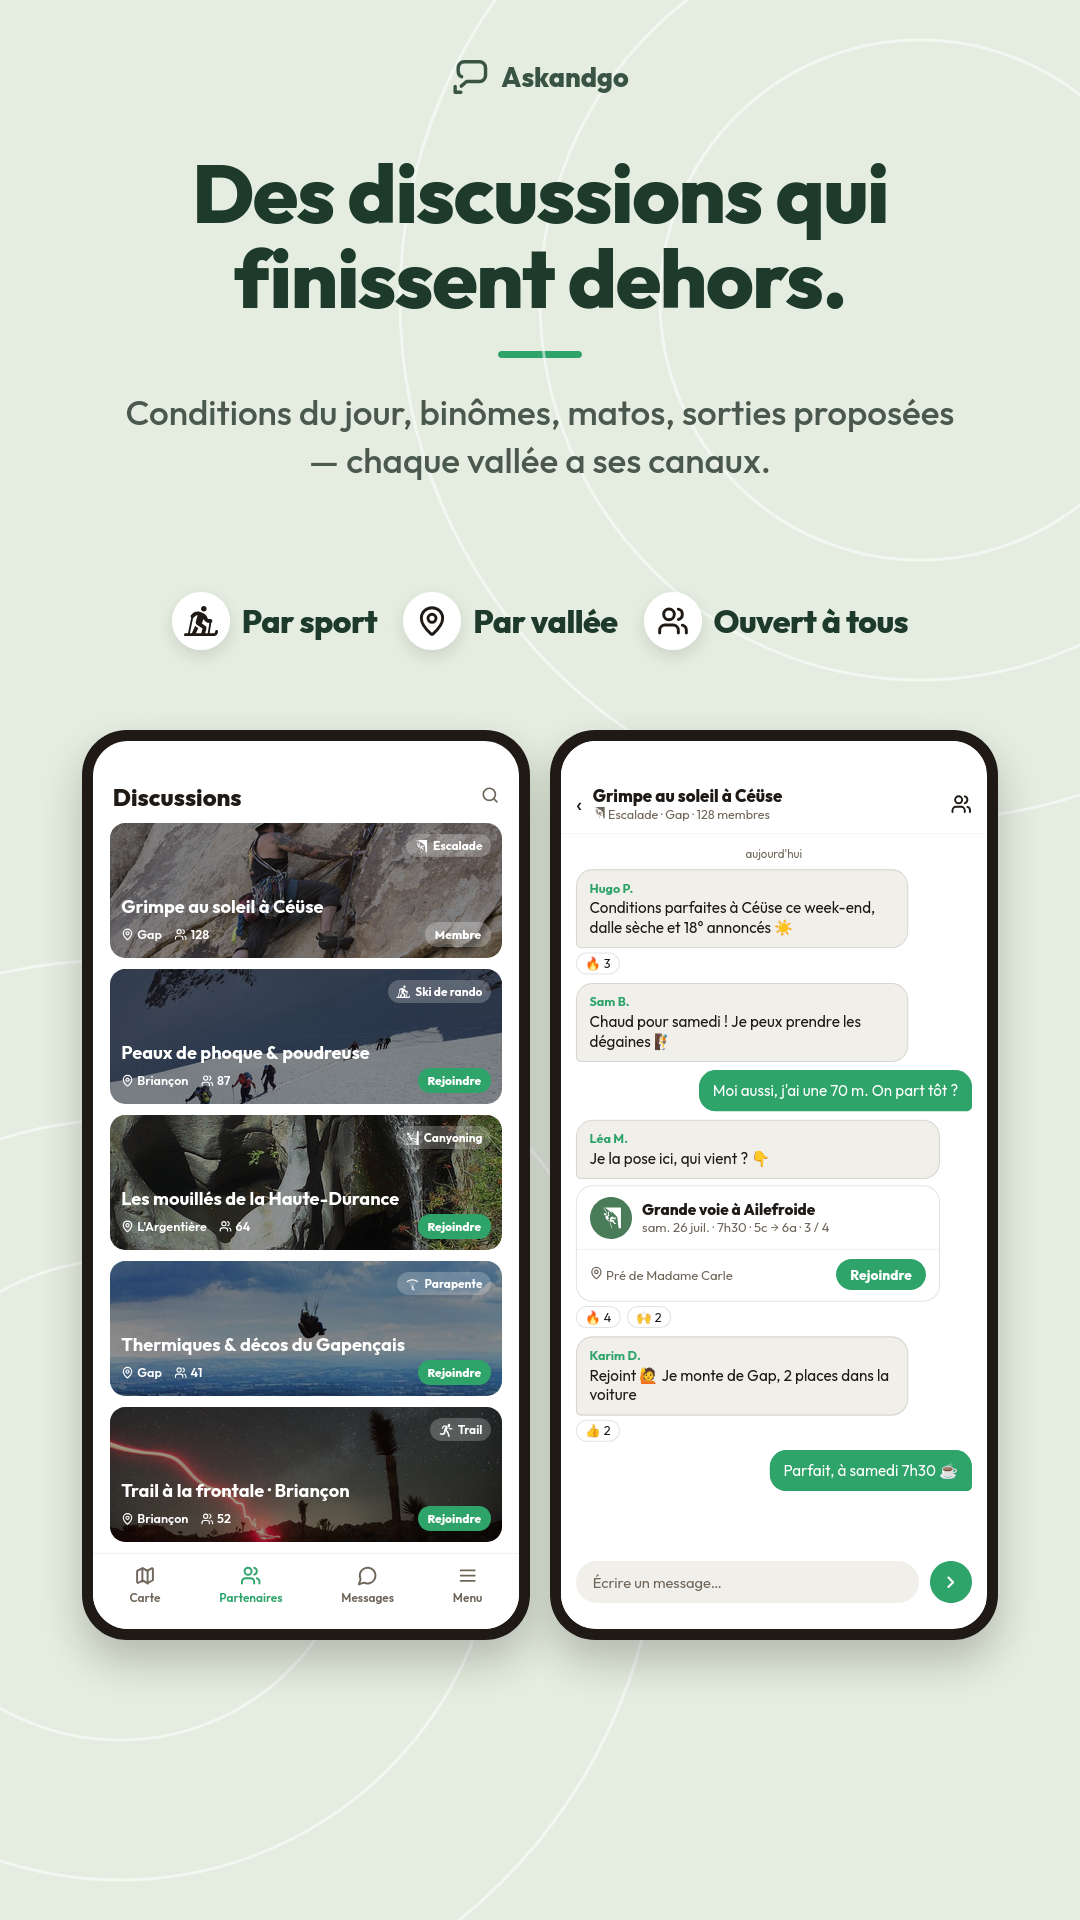
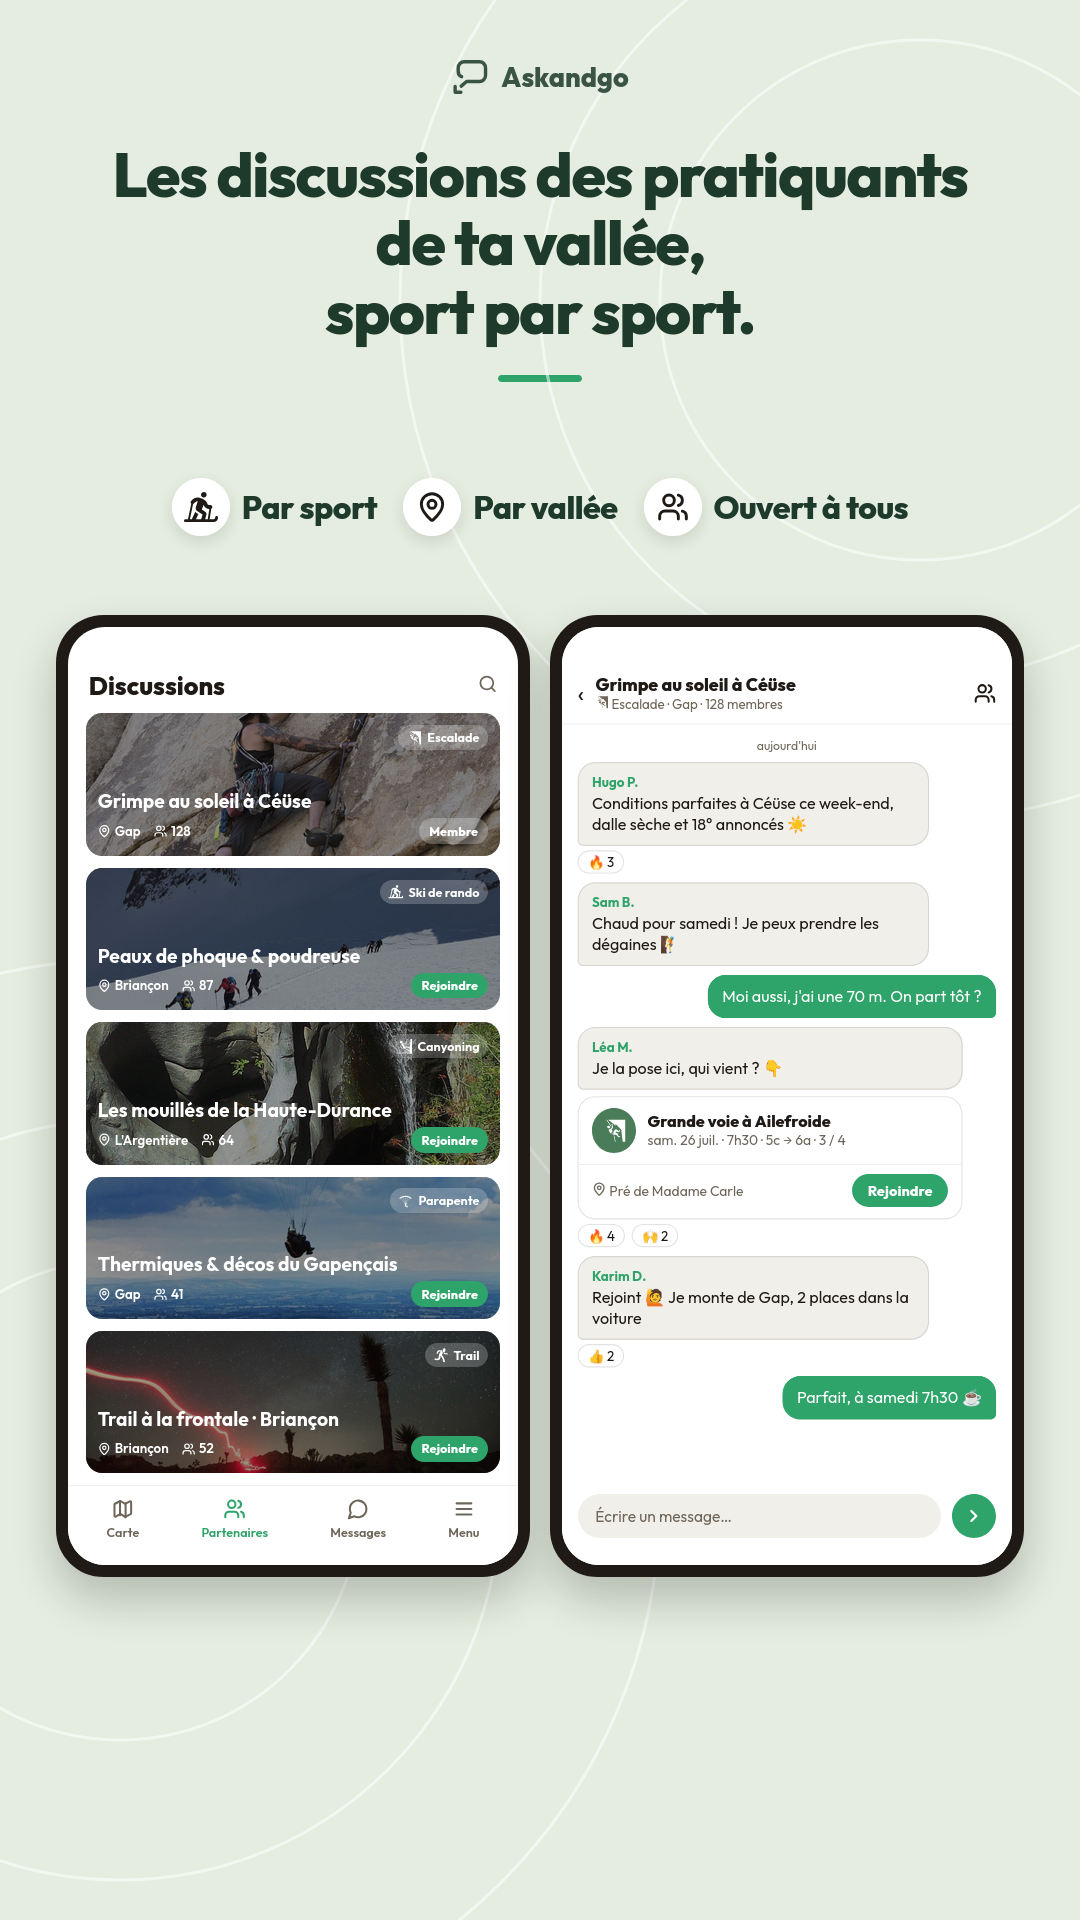
feat(play): descriptive titles that say what each screen does, no subtitle; title at 62 px, screens moved up and enlarged

diff --git a/assets/play-store/askandgo/two.py b/assets/play-store/askandgo/two.py
@@ -23,8 +23,8 @@ partenaires_body = pro_body = canaux_body = first_body
 
 def two_screens(title, sub, body_a, body_b):
     shell = screen(title, sub, '', '')
-    phones = (f'<div class="phone" style="left:-6px;top:600px;transform:scale(.72) rotate(-4deg);z-index:1"><div class="scr">{body_a}</div></div>'
-              f'<div class="phone" style="left:446px;top:900px;transform:scale(.72) rotate(3deg);z-index:2;box-shadow:0 46px 90px rgba(31,26,21,.34)"><div class="scr">{body_b}</div></div>')
+    phones = (f'<div class="phone" style="left:-6px;top:490px;transform:scale(.76) rotate(-4deg);z-index:1"><div class="scr">{body_a}</div></div>'
+              f'<div class="phone" style="left:446px;top:790px;transform:scale(.76) rotate(3deg);z-index:2;box-shadow:0 46px 90px rgba(31,26,21,.34)"><div class="scr">{body_b}</div></div>')
     return shell.replace('<div class="phone"><div class="scr"></div></div>', phones)
 
 # ---------- 3 · the page of a dispo (app/(auth)/partners/dispo.tsx) ----------
@@ -102,13 +102,13 @@ offering_body = f'''<div class="zoomwrap" style="background:#FFF">
 
 def keywords(items):
     cells = ''.join(f'<div style="display:flex;align-items:center;gap:12px"><span style="width:58px;height:58px;border-radius:50%;background:#FFF;display:inline-flex;align-items:center;justify-content:center;box-shadow:0 6px 16px rgba(31,26,21,.12)">{ic}</span><span style="font-size:32px;font-weight:800;color:{DEEP};letter-spacing:-.5px;white-space:nowrap">{w}</span></div>' for ic, w in items)
-    return f'<div style="position:absolute;left:0;right:0;top:592px;display:flex;justify-content:center;gap:26px;padding:0 20px">{cells}</div>'
+    return f'<div style="position:absolute;left:0;right:0;top:478px;display:flex;justify-content:center;gap:26px;padding:0 20px">{cells}</div>'
 
 # Image 4: two straight phones side by side (Scott 2026-10-27) under the keyword row.
 def side_by_side(title, sub, body_a, body_b, items):
     shell = screen(title, sub, '', '')
-    phones = (f'<div class="phone" style="left:-14px;top:730px;transform:scale(.70);box-shadow:0 30px 60px rgba(31,26,21,.24)"><div class="scr">{body_a}</div></div>'
-              f'<div class="phone" style="left:454px;top:730px;transform:scale(.70);box-shadow:0 30px 60px rgba(31,26,21,.24)"><div class="scr">{body_b}</div></div>')
+    phones = (f'<div class="phone" style="left:-27px;top:615px;transform:scale(.74);box-shadow:0 30px 60px rgba(31,26,21,.24)"><div class="scr">{body_a}</div></div>'
+              f'<div class="phone" style="left:467px;top:615px;transform:scale(.74);box-shadow:0 30px 60px rgba(31,26,21,.24)"><div class="scr">{body_b}</div></div>')
     return shell.replace('<div class="phone"><div class="scr"></div></div>', keywords(items) + phones)
 
 # ---------- 4 · a channel's thread: several people, a shared outing, reactions ----------
@@ -136,11 +136,12 @@ thread_body = f'''<div class="zoomwrap" style="background:#FFF">
 <div style="padding:10px 14px 24px;display:flex;align-items:center;gap:10px"><div style="flex:1;background:#F1EFEA;border-radius:999px;padding:11px 16px;font-size:14px;color:{SEC}">Écrire un message…</div><span style="width:40px;height:40px;border-radius:50%;background:{GREEN};display:inline-flex;align-items:center;justify-content:center">{li('chev',18,'#FFF',2.6)}</span></div></div>'''
 
 if which == '4':
-    html = side_by_side('Des discussions qui<br>finissent dehors.', 'Conditions du jour, binômes, matos, sorties proposées — chaque vallée a ses canaux.', canaux_body, thread_body,
+    html = side_by_side("Les discussions des pratiquants<br>de ta vallée,<br>sport par sport.", '', canaux_body, thread_body,
                         [(sp('ski-touring', 34, INK), 'Par sport'), (li('pin', 32, INK), 'Par vallée'), (li('users', 32, INK), 'Ouvert à tous')])
 elif which == '3':
-    html = two_screens('Dis quand<br>tu es dispo.', 'Pour quels sports, dans quelle zone — et vois qui cherche la même chose. Un message, et vous partez ensemble.', partenaires_body, dispo_body)
+    html = two_screens("Des partenaires de sortie :<br>même sport, même zone,<br>mêmes dates.", '', partenaires_body, dispo_body)
 else:
-    html = two_screens('Guides et moniteurs,<br>sur la même carte.', "Leur page, leurs sorties encadrées avec tarifs et places, des avis vérifiés. Tu choisis, tu réserves.", pro_body, offering_body)
+    html = two_screens("Des sorties encadrées<br>par des guides et moniteurs,<br>à réserver.", "", pro_body, offering_body)
+html = html.replace('font-size:82px;line-height:1.04', 'font-size:62px;line-height:1.1').replace('margin:150px 70px 0;text-align:center', 'margin:140px 60px 0;text-align:center')
 open(sys.argv[2], 'w').write(html)
 print('ok')

diff --git a/assets/play-store/askandgo/single.py b/assets/play-store/askandgo/single.py
@@ -14,21 +14,22 @@ screen_body = body
 def keywords(items):
     # items: [(icon_html, word)] — one centred row, title typography, no boxes
     cells = ''.join(f'<div style="display:flex;align-items:center;gap:12px"><span style="width:58px;height:58px;border-radius:50%;background:#FFF;display:inline-flex;align-items:center;justify-content:center;box-shadow:0 6px 16px rgba(31,26,21,.12)">{ic}</span><span style="font-size:32px;font-weight:800;color:{DEEP};letter-spacing:-.5px;white-space:nowrap">{w}</span></div>' for ic, w in items)
-    return f'<div style="position:absolute;left:0;right:0;top:592px;display:flex;justify-content:center;gap:26px;padding:0 20px">{cells}</div>'
+    return f'<div style="position:absolute;left:0;right:0;top:478px;display:flex;justify-content:center;gap:26px;padding:0 20px">{cells}</div>'
 
 def single(title, sub, body_html, items):
     shell = screen(title, sub, '', '')
-    phone = f'<div class="phone" style="left:220px;top:700px;transform:scale(.9);box-shadow:0 36px 70px rgba(31,26,21,.26)"><div class="scr">{body_html}</div></div>'
+    phone = f'<div class="phone" style="left:220px;top:585px;transform:scale(.95);box-shadow:0 36px 70px rgba(31,26,21,.26)"><div class="scr">{body_html}</div></div>'
     return shell.replace('<div class="phone"><div class="scr"></div></div>', keywords(items) + phone)
 
 if which == '2':
-    html = single("Dedans, tout<br>s'organise.", "Covoiturage, matériel, discussion de groupe, rendez-vous : tout le monde voit la même chose.", screen_body,
+    html = single("La sortie s'organise<br>avec les participants :<br>covoiturage, matériel, discussion.", "", screen_body,
                   [(li('car', 32, INK), 'Qui conduit'), (li('bag', 32, INK), 'Qui apporte quoi'), (li('msg', 32, INK), 'On se parle')])
 elif which == '4':
-    html = single('Des discussions qui<br>finissent dehors.', 'Conditions du jour, binômes, matos, sorties proposées — chaque vallée a ses canaux.', screen_body,
+    html = single("Les discussions des pratiquants<br>de ta vallée,<br>sport par sport.", '', screen_body,
                   [(sp('ski-touring', 34, INK), 'Par sport'), (li('pin', 32, INK), 'Par vallée'), (li('users', 32, INK), 'Ouvert à tous')])
 else:
-    html = single('Des inconnus, oui.<br>Des inconnus fiables.', 'Pas de notes, pas de classement : une fiabilité qui se construit dehors, sortie après sortie.', screen_body,
+    html = single("Des partenaires fiables :<br>présence et niveau<br>vérifiés sur le terrain.", '', screen_body,
                   [(li('check', 32, INK, 3), 'Présence vérifiée'), (li('shield', 32, INK), 'Fiabilité'), (li('users', 32, INK), 'Niveau confirmé')])
+html = html.replace('font-size:82px;line-height:1.04', 'font-size:62px;line-height:1.1').replace('margin:150px 70px 0;text-align:center', 'margin:140px 60px 0;text-align:center')
 open(sys.argv[2], 'w').write(html)
 print('ok')

diff --git a/assets/play-store/askandgo/carte1.py b/assets/play-store/askandgo/carte1.py
@@ -58,9 +58,10 @@ body = f'''<div style="position:absolute;inset:0;background:url({MAP}) center/co
 {drawer_handle(104)}
 <div style="position:absolute;left:0;right:0;bottom:0">{tabbar(0)}</div>'''
 
-extra = (callout(26, 880, sp('climbing-sport', 54, INK), 'Quoi', 'le sport, dans le pin', 'left', 212)
-       + callout(838, 1000, li('pin', 50, INK), 'Où', 'posé sur le spot exact', 'right', 212)
-       + callout(26, 1340, li('cal', 50, INK), 'Quand', 'et le niveau attendu', 'left', 212))
-html = screen('Où que tu ailles,<br>vois qui part.', 'Chaque sortie est posée sur la carte, pile là où ça se passe. Filtre par sport, par date — ou lance la tienne.', body, extra)
+extra = (callout(26, 730, sp('climbing-sport', 54, INK), 'Quoi', 'le sport, dans le pin', 'left', 212)
+       + callout(838, 850, li('pin', 50, INK), 'Où', 'posé sur le spot exact', 'right', 212)
+       + callout(26, 1190, li('cal', 50, INK), 'Quand', 'et le niveau attendu', 'left', 212))
+html = screen("Des sorties outdoor<br>à rejoindre,<br>là où tu es.", '', body, extra, top=620)
+html = html.replace('font-size:82px;line-height:1.04', 'font-size:62px;line-height:1.1').replace('margin:150px 70px 0;text-align:center', 'margin:140px 60px 0;text-align:center')
 open(sys.argv[1], 'w').write(html)
 print('ok')
